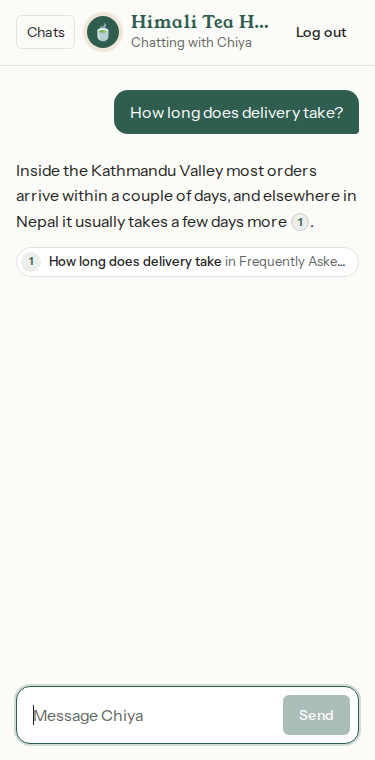
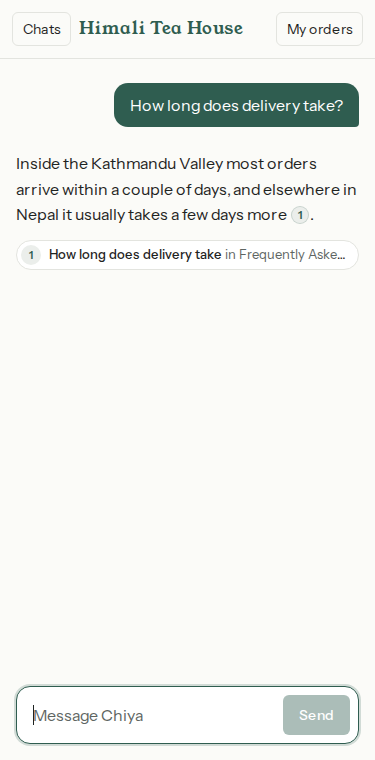
test(e2e): card flows, panels, mobile layout and screenshots

diff --git a/e2e/tests/test_cards_and_panels.py b/e2e/tests/test_cards_and_panels.py
@@ -1,0 +1,204 @@
+"""Rich cards, the sidebar and the My orders / My bookings panel, against the running stack
+(scripted fake LLM, real tools, real database). Runs at 1280 px and at 375 px."""
+
+import re
+
+from playwright.sync_api import Page, expect
+
+from conftest import shot, sign_up
+
+PANEL_WIDTH = 1100  # at this width and above the panel is inline; below it opens from a header button
+
+
+def ask(page: Page, text: str):  # noqa: ANN201
+    """Send a message and wait until the assistant's reply is complete. Returns that reply."""
+    replies = page.get_by_test_id("assistant-message")
+    before = replies.count()
+    box = page.get_by_label("Message")
+    box.fill(text)
+    box.press("Enter")
+    expect(replies).to_have_count(before + 1)
+    expect(replies.last).to_have_attribute("data-status", "complete")
+    return replies.last
+
+
+def narrow(page: Page) -> bool:
+    return page.viewport_size["width"] < PANEL_WIDTH
+
+
+def open_panel(page: Page, title: str):  # noqa: ANN201
+    """The My orders / My bookings panel, opening its drawer first on a narrow screen."""
+    if narrow(page):
+        page.get_by_role("button", name=title, exact=True).click()
+    panel = page.locator("[data-testid=my-items]:visible")
+    expect(panel).to_be_visible()
+    return panel
+
+
+def close_panel(page: Page) -> None:
+    if narrow(page):
+        page.keyboard.press("Escape")
+        expect(page.locator("[data-testid=my-items]:visible")).to_have_count(0)
+
+
+def open_chats(page: Page) -> None:
+    """The chat list: always visible on a wide screen, a drawer at 768 px and below."""
+    if page.viewport_size["width"] <= 768:
+        page.get_by_role("button", name="Chats", exact=True).click()
+    expect(chat_nav(page)).to_be_visible()
+
+
+def chat_nav(page: Page):  # noqa: ANN201
+    """The visible chat list: the sidebar, or the drawer on a narrow screen."""
+    return page.locator("nav[aria-label=Chats]:visible")
+
+
+def no_sideways_scroll(page: Page) -> None:
+    sizes = page.evaluate("({sw: document.documentElement.scrollWidth, cw: document.documentElement.clientWidth})")
+    assert sizes["sw"] <= sizes["cw"], f"page scrolls sideways: {sizes}"
+    # The composer stays on screen however long the chat gets.
+    box = page.get_by_label("Message").bounding_box()
+    assert box and 0 <= box["y"] and box["y"] + box["height"] <= page.viewport_size["height"], box
+
+
+def test_store_order_card_confirm_and_my_orders(page: Page) -> None:
+    sign_up(page, "himali-tea")
+    ask(page, "I'd like to order two sencha please")
+    card = page.get_by_test_id("proposal-card").last
+    expect(card).to_have_attribute("data-state", "open")
+    expect(card).to_contain_text("2 × Himalayan Sencha")
+    expect(card).to_contain_text("House 7, Baluwatar")
+    expect(card.get_by_test_id("proposal-total")).to_be_visible()
+    shot(page, "card-order-summary")
+    no_sideways_scroll(page)
+
+    card.get_by_role("button", name="Confirm order").click()
+    expect(card).to_have_attribute("data-state", "confirmed")
+    expect(card.get_by_test_id("confirmed-tag")).to_have_text("Confirmed ✓")
+    expect(card.get_by_role("button")).to_have_count(0)
+    outcome = page.get_by_test_id("outcome-card").last
+    expect(outcome).to_contain_text("Order placed")
+    expect(outcome).to_contain_text("Pending")  # confirming makes a pending order, not a confirmed one
+    shot(page, "card-order-placed")
+
+    panel = open_panel(page, "My orders")
+    rows = panel.get_by_test_id("order-row")
+    expect(rows).to_have_count(1)
+    expect(rows.first).to_contain_text("Pending")
+    number = re.search(r"HT-\d+", rows.first.inner_text()).group(0)
+    shot(page, "panel-orders")
+    close_panel(page)
+
+    # History reloads with the card's real, current state.
+    page.reload()
+    again = page.get_by_test_id("proposal-card").last
+    expect(again).to_have_attribute("data-state", "confirmed")
+    expect(again.get_by_test_id("confirmed-tag")).to_be_visible()
+
+    expect(ask(page, "show me my orders").get_by_test_id("order-list")).to_contain_text(number)
+    shot(page, "card-order-list")
+    expect(ask(page, "what teas do you have?").get_by_test_id("product-list")).to_contain_text("Himalayan Sencha")
+    shot(page, "card-product-list")
+    status = ask(page, f"what's the status of order {number}").get_by_test_id("order-status")
+    expect(status).to_contain_text("Order placed")
+    shot(page, "card-order-status")
+
+    # A newer summary supersedes the older one: the old card greys out.
+    ask(page, f"please cancel order {number}")
+    cancel = page.locator("[data-testid=proposal-card][data-kind=cancel_order]")  # not .last: a newer card is coming
+    expect(cancel).to_have_attribute("data-state", "open")
+    shot(page, "card-order-cancel")
+    ask(page, "I'd like to order two sencha please")
+    expect(cancel).to_have_attribute("data-state", "superseded")
+    expect(cancel.get_by_test_id("proposal-note")).to_contain_text("newer summary")
+    expect(cancel.get_by_role("button")).to_have_count(0)
+    shot(page, "card-superseded")
+    no_sideways_scroll(page)
+
+
+def test_booking_slot_chip_confirm_and_my_bookings(page: Page) -> None:
+    sign_up(page, "lotus-wellness")
+    ask(page, "what times are free this week?")
+    slots = page.get_by_test_id("slot-list").last
+    chips = slots.get_by_test_id("slot-chip")
+    expect(chips.first).to_be_enabled()
+    assert chips.count() > 1
+    shot(page, "card-slot-list")
+    no_sideways_scroll(page)
+
+    chips.first.click()
+    expect(chips.first).to_be_disabled()  # disabled while the turn streams
+    card = page.get_by_test_id("proposal-card").last
+    expect(card).to_have_attribute("data-state", "open")
+    expect(card).to_contain_text("Swedish Relaxation Massage")
+    expect(card).to_contain_text("Date")
+    shot(page, "card-booking-summary")
+
+    card.get_by_role("button", name="Confirm booking").click()
+    expect(card).to_have_attribute("data-state", "confirmed")
+    expect(card.get_by_test_id("confirmed-tag")).to_have_text("Confirmed ✓")
+    expect(card.get_by_role("button")).to_have_count(0)
+    expect(page.get_by_test_id("outcome-card").last).to_contain_text("Booking made")
+    shot(page, "card-booking-made")
+
+    panel = open_panel(page, "My bookings")
+    rows = panel.get_by_test_id("booking-row")
+    expect(rows).to_have_count(1)
+    expect(rows.first).to_contain_text("Swedish Relaxation Massage")
+    number = re.search(r"LW-\d+", rows.first.inner_text()).group(0)
+    shot(page, "panel-bookings")
+    close_panel(page)
+
+    page.reload()
+    expect(page.get_by_test_id("proposal-card").last).to_have_attribute("data-state", "confirmed")
+
+    expect(ask(page, "show my bookings").get_by_test_id("booking-list")).to_contain_text(number)
+    shot(page, "card-booking-list")
+    expect(ask(page, "what services do you offer?").get_by_test_id("service-list")).to_be_visible()
+    shot(page, "card-service-list")
+    ask(page, f"cancel booking {number}")
+    expect(page.get_by_test_id("proposal-card").last).to_have_attribute("data-kind", "cancel_booking")
+    expect(page.get_by_test_id("proposal-card").last).to_contain_text("Fee")
+    shot(page, "card-booking-cancel")
+    no_sideways_scroll(page)
+
+
+def test_rename_and_delete_a_conversation(page: Page) -> None:
+    sign_up(page, "himali-tea")
+    ask(page, "How long does delivery take?")
+    open_chats(page)
+    shot(page, "sidebar")
+    nav = chat_nav(page)
+    item = nav.get_by_test_id("conversation-item").first
+    expect(item.get_by_role("button", name="How long does delivery take?", exact=True)).to_have_attribute("aria-current", "page")
+
+    item.hover()
+    item.get_by_role("button", name=re.compile(r"^Rename")).click()
+    field = nav.get_by_label("Chat name")
+    field.fill("Delivery times")
+    field.press("Enter")
+    expect(nav.get_by_test_id("conversation-item").first).to_contain_text("Delivery times")
+
+    page.reload()  # the new name is stored, not just shown
+    open_chats(page)
+    nav = chat_nav(page)
+    item = nav.get_by_test_id("conversation-item").first
+    expect(item).to_contain_text("Delivery times")
+
+    item.hover()
+    item.get_by_role("button", name=re.compile(r"^Delete")).click()
+    dialog = page.get_by_role("alertdialog")
+    expect(dialog).to_contain_text("Delete this chat?")
+    shot(page, "delete-dialog")
+    dialog.get_by_role("button", name="Keep chat").click()
+    expect(dialog).to_have_count(0)
+    expect(item).to_be_visible()
+
+    item.hover()
+    item.get_by_role("button", name=re.compile(r"^Delete")).click()
+    page.get_by_role("alertdialog").get_by_role("button", name="Delete chat").click()
+    expect(nav.get_by_test_id("conversation-item")).to_have_count(0)
+    page.wait_for_url(re.compile(r"/a/himali-tea/chat$"))  # deleting the open chat leaves it
+    if page.viewport_size["width"] <= 768:
+        expect(page.get_by_role("button", name="Chats", exact=True)).to_be_visible()
+    expect(page.get_by_text("Namaste! I'm Chiya")).to_be_visible()
